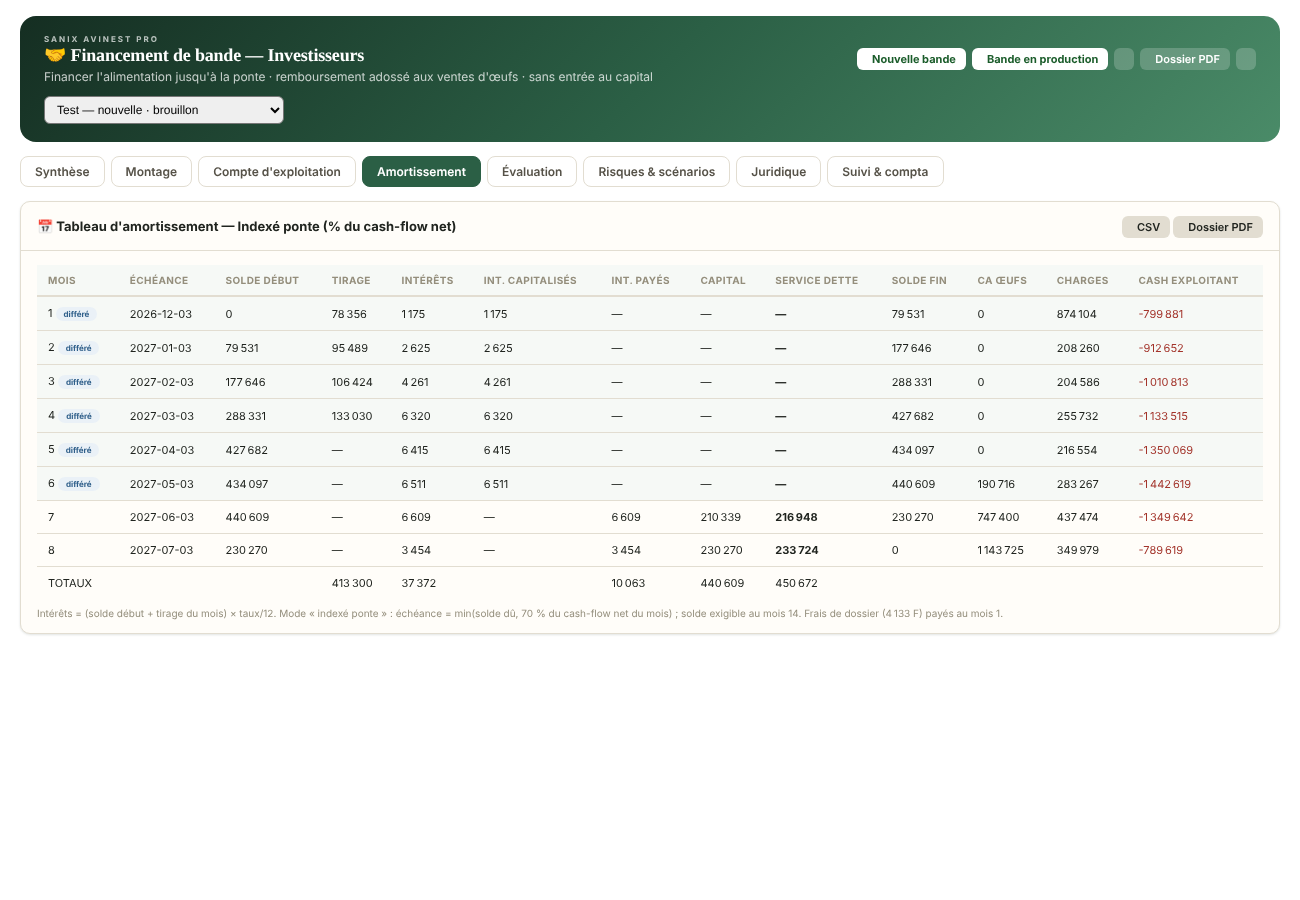
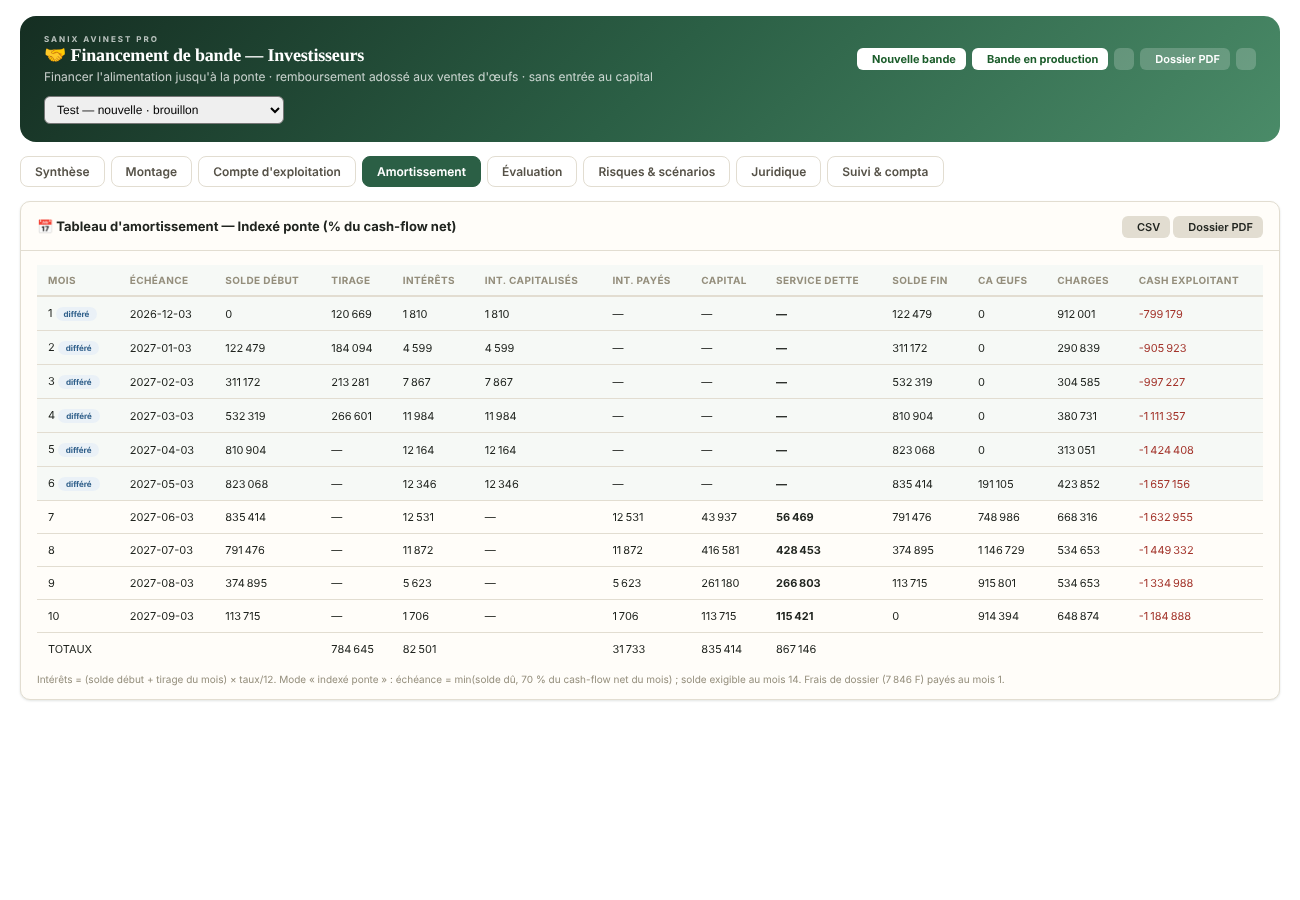
feat(simu): prix aliment réels (300-350 F/kg) et âge de réforme paramétrable (défaut 72 sem.)
Claude-Session: https://claude.ai/code/session_01XGyegJwan1hozCysUqiur2

diff --git a/index.html b/index.html
@@ -3316,7 +3316,7 @@ var PAIE_CI = {
 // Prix aliment de repli (FCFA/kg) — utilisé par Finance & Rentabilité pour estimer le coût
 // aliment d'un lot UNIQUEMENT si aucune charge "aliment" n'a été saisie manuellement pour
 // ce lot. Configurable (Paramétrage > Finance) au lieu d'être figé dans le code.
-var FINANCE_PARAMS = { prixAlimentDefaut: 185, seuilAlerteDerive: 15 };
+var FINANCE_PARAMS = { prixAlimentDefaut: 300, seuilAlerteDerive: 15 }; // 300 F/kg = prix d'achat constaté (nov. 2026)
 // Recettes = ventes livrées, facturées ou soldées (fait générateur : livraison/facture, comme en compta).
 // 'pending' (en attente) et 'confirmed' (confirmée, non livrée) ne sont pas du chiffre d'affaires ; 'cancelled' jamais.
 var STATUTS_VENTE_COMPTABILISEE = ['delivered','invoiced','paid'];
@@ -23016,9 +23016,9 @@ const SIMU_DEFAULTS = {
   poidsReformeKg: 1.9,      // kg poids vif moyen poule de réforme
   rendReformeKg: 68,        // % rendement carcasse réforme (< broiler)
   prixReformeKg: 1200,      // FCFA/kg réforme (marché local — viande dure, prix décoté)
-  coutAlimentD: 195,        // Démarrage FCFA/kg
-  coutAlimentC: 175,        // Croissance/Finition FCFA/kg
-  coutAlimentP: 185,        // Ponte FCFA/kg
+  coutAlimentD: 300,        // Démarrage FCFA/kg — prix d'achat réel constaté (nov. 2026)
+  coutAlimentC: 350,        // Croissance/Finition FCFA/kg (entre démarrage 300 et pré-ponte 400)
+  coutAlimentP: 300,        // Ponte FCFA/kg — prix d'achat réel constaté
   coutVacc: 800,            // FCFA/tête (total vaccinations)
   coutMed: 300,             // FCFA/tête (antibio, anticopc…)
   coutLitiere: 50,          // FCFA/tête
@@ -23039,7 +23039,8 @@ const SIMU_DEFAULTS = {
   prixOeufUnit: 80,         // FCFA/œuf (layer) — plateau 30 œufs bord-ferme 2 400 F (fév. 2026)
   tauxPonteMoy: 85,         // % moyen
   tauxCasse: 1.5,           // % œufs cassés/déclassés (réel ≈ 1,3 %)
-  dureeExploitation: 14     // semaines de ponte exploitées en simu
+  dureeExploitation: 14,    // semaines de ponte exploitées en simu
+  semReforme: 72            // pondeuses : âge de réforme (semaines) — pratique courante 72-80 ; 60 = ancien cycle court
 };
 
 // Phases chair et durées (semaines)
@@ -23061,11 +23062,25 @@ const PHASES_LAYER = [
   {id:'reforme',    label:'Réforme',           semDeb:57, semFin:60, icon:'🔄', color:'#fee2e2', border:'#dc2626', feedGPD:108, mortalitePhasePct:0.5,  ponteFactor:0.00}
 ];
 
-function simuGetPhases(type){ return type==='broiler'?PHASES_BROILER:PHASES_LAYER; }
+// Cycle pondeuse à durée variable : la phase « ponte soutenue » s'allonge, la réforme occupe les 4 dernières semaines.
+var _phasesLayerCache={};
+function simuPhasesLayer(sr){
+  sr=Math.max(60,Math.min(100,Math.round(+sr||SIMU_DEFAULTS.semReforme||72)));
+  if(sr===60) return PHASES_LAYER;
+  if(_phasesLayerCache[sr]) return _phasesLayerCache[sr];
+  var ph=PHASES_LAYER.map(function(x){ return Object.assign({},x); });
+  var ps=ph.filter(function(x){return x.id==='pontesout';})[0], rf=ph.filter(function(x){return x.id==='reforme';})[0];
+  var base=ps.semFin-ps.semDeb+1;
+  ps.semFin=sr-4; ps.mortalitePhasePct=PHASES_LAYER.filter(function(x){return x.id==='pontesout';})[0].mortalitePhasePct*(ps.semFin-ps.semDeb+1)/base;
+  rf.semDeb=sr-3; rf.semFin=sr;
+  return (_phasesLayerCache[sr]=ph);
+}
+function simuGetPhases(type,sr){ return type==='broiler'?PHASES_BROILER:simuPhasesLayer(sr); }
 
 function simuCalcBande(p){
   // p = paramètres (objet fusionnant SIMU_DEFAULTS + saisie utilisateur)
-  const phases = simuGetPhases(p.typeLot);
+  const phases = simuGetPhases(p.typeLot, p.semReforme);
+  const dureeLot = phases[phases.length-1].semFin; // semaines du cycle (6 chair, 72 pondeuse par défaut)
   let vivants = p.nbBetes;
   const rows = [];
   let cumCoutDirect = 0, cumCoutIndirect = 0, cumRecette = 0;
@@ -23110,8 +23125,8 @@ function simuCalcBande(p){
     const poidsVaccPhase = (ph.id==='demarrage'||ph.id==='poulette') ? 1 : 0.1;
     const totalPoidsVacc = phases.reduce((s,ph2)=>s+((ph2.id==='demarrage'||ph2.id==='poulette')?1:0.1), 0);
     const coutVaccPhase = vivants * p.coutVacc * (poidsVaccPhase / totalPoidsVacc);
-    const coutMedPhase  = vivants * p.coutMed * (nbSem / (p.typeLot==='broiler'?6:60));
-    const coutEauPhase  = vivantsDebut * p.coutEau * (nbSem / (p.typeLot==='broiler'?6:60));
+    const coutMedPhase  = vivants * p.coutMed * (nbSem / dureeLot);
+    const coutEauPhase  = vivantsDebut * p.coutEau * (nbSem / dureeLot);
     const coutLitierePhase = ph.id==='demarrage' ? vivants * p.coutLitiere : 0;
 
     // Coût direct phase
@@ -23120,7 +23135,7 @@ function simuCalcBande(p){
 
     // Coût indirect phase (calculé sur la durée réelle en mois)
     const nbMoisPhase = nbSem / 4.33;
-    const dureeLotsem = p.typeLot==='broiler' ? 6 : 60;
+    const dureeLotsem = dureeLot;
     const ratioSem = nbSem / dureeLotsem;
     const coutMainPhase    = p.coutMain * nbMoisPhase;
     const coutEnergiePhase = p.coutEnergie * nbMoisPhase;
@@ -23299,7 +23314,7 @@ async function renderSimuBande(ca){
         <div>
           <div style="font-size:8px;font-weight:700;letter-spacing:2px;color:rgba(82,183,136,.8);text-transform:uppercase">SANIX AVINEST PRO</div>
           <h2>📊 Simulation Déploiement de Bande</h2>
-          <p>Analyse des coûts directs & indirects • Marges brutes et nettes • ${p.nbBetes} bêtes • ${p.typeLot==='broiler'?'Poulet de chair 🍗 (cycle ~6 semaines)':'Pondeuse 🥚 (cycle ~60 semaines · 14 mois)'}</p>
+          <p>Analyse des coûts directs & indirects • Marges brutes et nettes • ${p.nbBetes} bêtes • ${p.typeLot==='broiler'?'Poulet de chair 🍗 (cycle ~6 semaines)':'Pondeuse 🥚 (cycle ${(p.semReforme||72)} semaines · ${Math.round((p.semReforme||72)/4.33)} mois)'}</p>
         </div>
       </div>
       <div style="display:flex;gap:6px;flex-wrap:wrap">
@@ -23405,6 +23420,7 @@ async function renderSimuBande(ca){
       <div class="fg"><div class="sbl">Poids vif réforme (kg)</div><input type="number" id="sp_poidsReformeKg" value="${p.poidsReformeKg||1.9}" min="1" max="3.5" step="0.05" oninput="simuRecalc()"></div>
       <div class="fg"><div class="sbl">Rend. carcasse réforme (%)</div><input type="number" id="sp_rendReformeKg" value="${p.rendReformeKg||68}" min="55" max="80" step="0.5" oninput="simuRecalc()"></div>
       <div class="fg"><div class="sbl">Prix réforme (F/kg)</div><input type="number" id="sp_prixReformeKg" value="${p.prixReformeKg||1200}" oninput="simuRecalc()"></div>
+      <div class="fg"><div class="sbl">Âge de réforme (semaines)</div><input type="number" id="sp_semReforme" value="${p.semReforme||72}" min="60" max="100" step="1" oninput="simuRecalc()"><div style="font-size:9px;color:var(--text3);margin-top:2px">72-80 en pratique ; 60 = cycle court</div></div>
       `:''}
       <!-- Note courbe ponte -->
       ${p.typeLot==='layer'?`<div style="grid-column:1/-1;background:#fef3c7;border-radius:8px;padding:8px 12px;font-size:11px;color:#92400e;border:1px solid #fcd34d">
@@ -23504,7 +23520,7 @@ async function renderSimuBande(ca){
     </div>
     <div class="card-bd">
       <div style="display:grid;grid-template-columns:repeat(auto-fit,minmax(130px,1fr));gap:10px;margin-bottom:14px">
-        <div class="kpi kpi-b"><div class="kpi-lbl">Œufs totaux cycle</div><div class="kpi-val" style="color:#7c3aed">${ff(result.cumOeufs)}</div><div class="kpi-sub">sur 60 semaines</div></div>
+        <div class="kpi kpi-b"><div class="kpi-lbl">Œufs totaux cycle</div><div class="kpi-val" style="color:#7c3aed">${ff(result.cumOeufs)}</div><div class="kpi-sub">sur ${result.rows[result.rows.length-1].ph.semFin} semaines</div></div>
         <div class="kpi kpi-g"><div class="kpi-lbl">Œufs / PL logée</div><div class="kpi-val">${ff(result.oeufsParPL)}</div><div class="kpi-sub">référence : 280–320 / ISA</div></div>
         <div class="kpi kpi-a"><div class="kpi-lbl">Coût / œuf produit</div><div class="kpi-val">${fp(result.totalCout/Math.max(1,result.cumOeufs))} F</div><div class="kpi-sub">toutes charges</div></div>
         <div class="kpi ${result.margeNette/Math.max(1,result.cumOeufs)>=0?'kpi-g':'kpi-r'}"><div class="kpi-lbl">Marge / œuf</div><div class="kpi-val">${fp(result.margeNette/Math.max(1,result.cumOeufs))} F</div><div class="kpi-sub">prix vente ${ff(p.prixOeufUnit)} F/u</div></div>
@@ -24252,14 +24268,14 @@ function simuBuildCharts(result, p){
       if(simuChartLayerInst){simuChartLayerInst.destroy();simuChartLayerInst=null;}
 
       // Générer les données semaine par semaine (S1 → S60) avec taux effectif
-      const totalSem = 60;
+      const totalSem = result.rows[result.rows.length-1].ph.semFin;
       const labelsMois = [];
       const tauxData = [];
       const effData  = []; // effectif vivant approx
       const oeufsData = []; // œufs hebdomadaires
 
       let effCourant = p.nbBetes;
-      const phases = PHASES_LAYER;
+      const phases = simuGetPhases('layer', p.semReforme);
       for(let s=1; s<=totalSem; s++){
         // Trouver la phase correspondante
         const ph = phases.find(ph=>s>=ph.semDeb&&s<=ph.semFin)||phases[phases.length-1];
@@ -24332,7 +24348,7 @@ function simuBuildCharts(result, p){
       // Légende phases
       const leg = document.getElementById('simuLayerLegend');
       if(leg){
-        leg.innerHTML = PHASES_LAYER.map(ph=>`
+        leg.innerHTML = simuGetPhases('layer', p.semReforme).map(ph=>`
           <div style="display:flex;align-items:center;gap:5px;font-size:10px">
             <div style="width:10px;height:10px;border-radius:2px;background:${ph.border};flex-shrink:0"></div>
             <span style="color:${ph.border};font-weight:700">${ph.icon} ${ph.label}</span>
@@ -24376,6 +24392,7 @@ function simuGetCurrentParams(){
     poidsReformeKg:    read('sp_poidsReformeKg'),
     rendReformeKg:     read('sp_rendReformeKg'),
     prixReformeKg:     read('sp_prixReformeKg'),
+    semReforme:        read('sp_semReforme'),
     coutAlimentD:      read('sp_coutAlimentD'),
     coutAlimentC:      read('sp_coutAlimentC'),
     coutAlimentP:      read('sp_coutAlimentP'),
@@ -24640,7 +24657,8 @@ function finFactor(w, ph, courbe){
   if(w<19) return 0;
   if(w<=25) return ramp[w];
   if(w<=40) return 1;
-  return 1-0.36*(w-40)/16;
+  if(w<=56) return 1-0.36*(w-40)/16;
+  return Math.max(0.5,0.64-0.005*(w-56));   // au-delà de S56 : déclin lent (lots réels encore à 62-68 % après 2 ans)
 }
 
 // Déroulé hebdomadaire — répartit les montants de chaque phase de la Simulation sur ses semaines.
@@ -25180,7 +25198,7 @@ function finTabMontage(f,E){
     +(f.typeLot==='broiler'
       ?finSimIn('Poussin chair (F)','coutPoussin',s.coutPoussin)+finSimIn('Poids vif abattage (kg)','poidsMoyenVif',s.poidsMoyenVif,0.05)+finSimIn('Rendement carcasse (%)','rendCarcasse',s.rendCarcasse,0.5)+finSimIn('Prix carcasse (F/kg)','prixCarcasseKg',s.prixCarcasseKg)
         +finSimIn('Aliment démarrage (F/kg)','coutAlimentD',s.coutAlimentD)+finSimIn('Aliment croissance (F/kg)','coutAlimentC',s.coutAlimentC)
-      :finSimIn('Taux ponte pic (%)','tauxPonteMoy',s.tauxPonteMoy,0.5)+finSimIn('Prix œuf (F)','prixOeufUnit',s.prixOeufUnit)+finSimIn('Casse (%)','tauxCasse',s.tauxCasse==null?1.5:s.tauxCasse,0.1)+finSimIn('Poulette J0 (F)','coutPoussineLayer',s.coutPoussineLayer)
+      :finSimIn('Taux ponte pic (%)','tauxPonteMoy',s.tauxPonteMoy,0.5)+finSimIn('Prix œuf (F)','prixOeufUnit',s.prixOeufUnit)+finSimIn('Casse (%)','tauxCasse',s.tauxCasse==null?1.5:s.tauxCasse,0.1)+finSimIn('Âge de réforme (sem.)','semReforme',s.semReforme||72,1)+finSimIn('Poulette J0 (F)','coutPoussineLayer',s.coutPoussineLayer)
         +finSimIn('Aliment démarrage (F/kg)','coutAlimentD',s.coutAlimentD)+finSimIn('Aliment croissance (F/kg)','coutAlimentC',s.coutAlimentC)+finSimIn('Aliment ponte (F/kg)','coutAlimentP',s.coutAlimentP)
         +finSel('Courbe de ponte','courbe',f.courbe,[['lisse','Réaliste (lissée)'],['simu','Identique Simulation (paliers)']]))
     +finIn('Délai encaissement (mois)','delaiEncaiss',f.delaiEncaiss,1)+finIn('Valeur de marché du cheptel (F/tête)','prixPoulette',f.prixPoulette)
